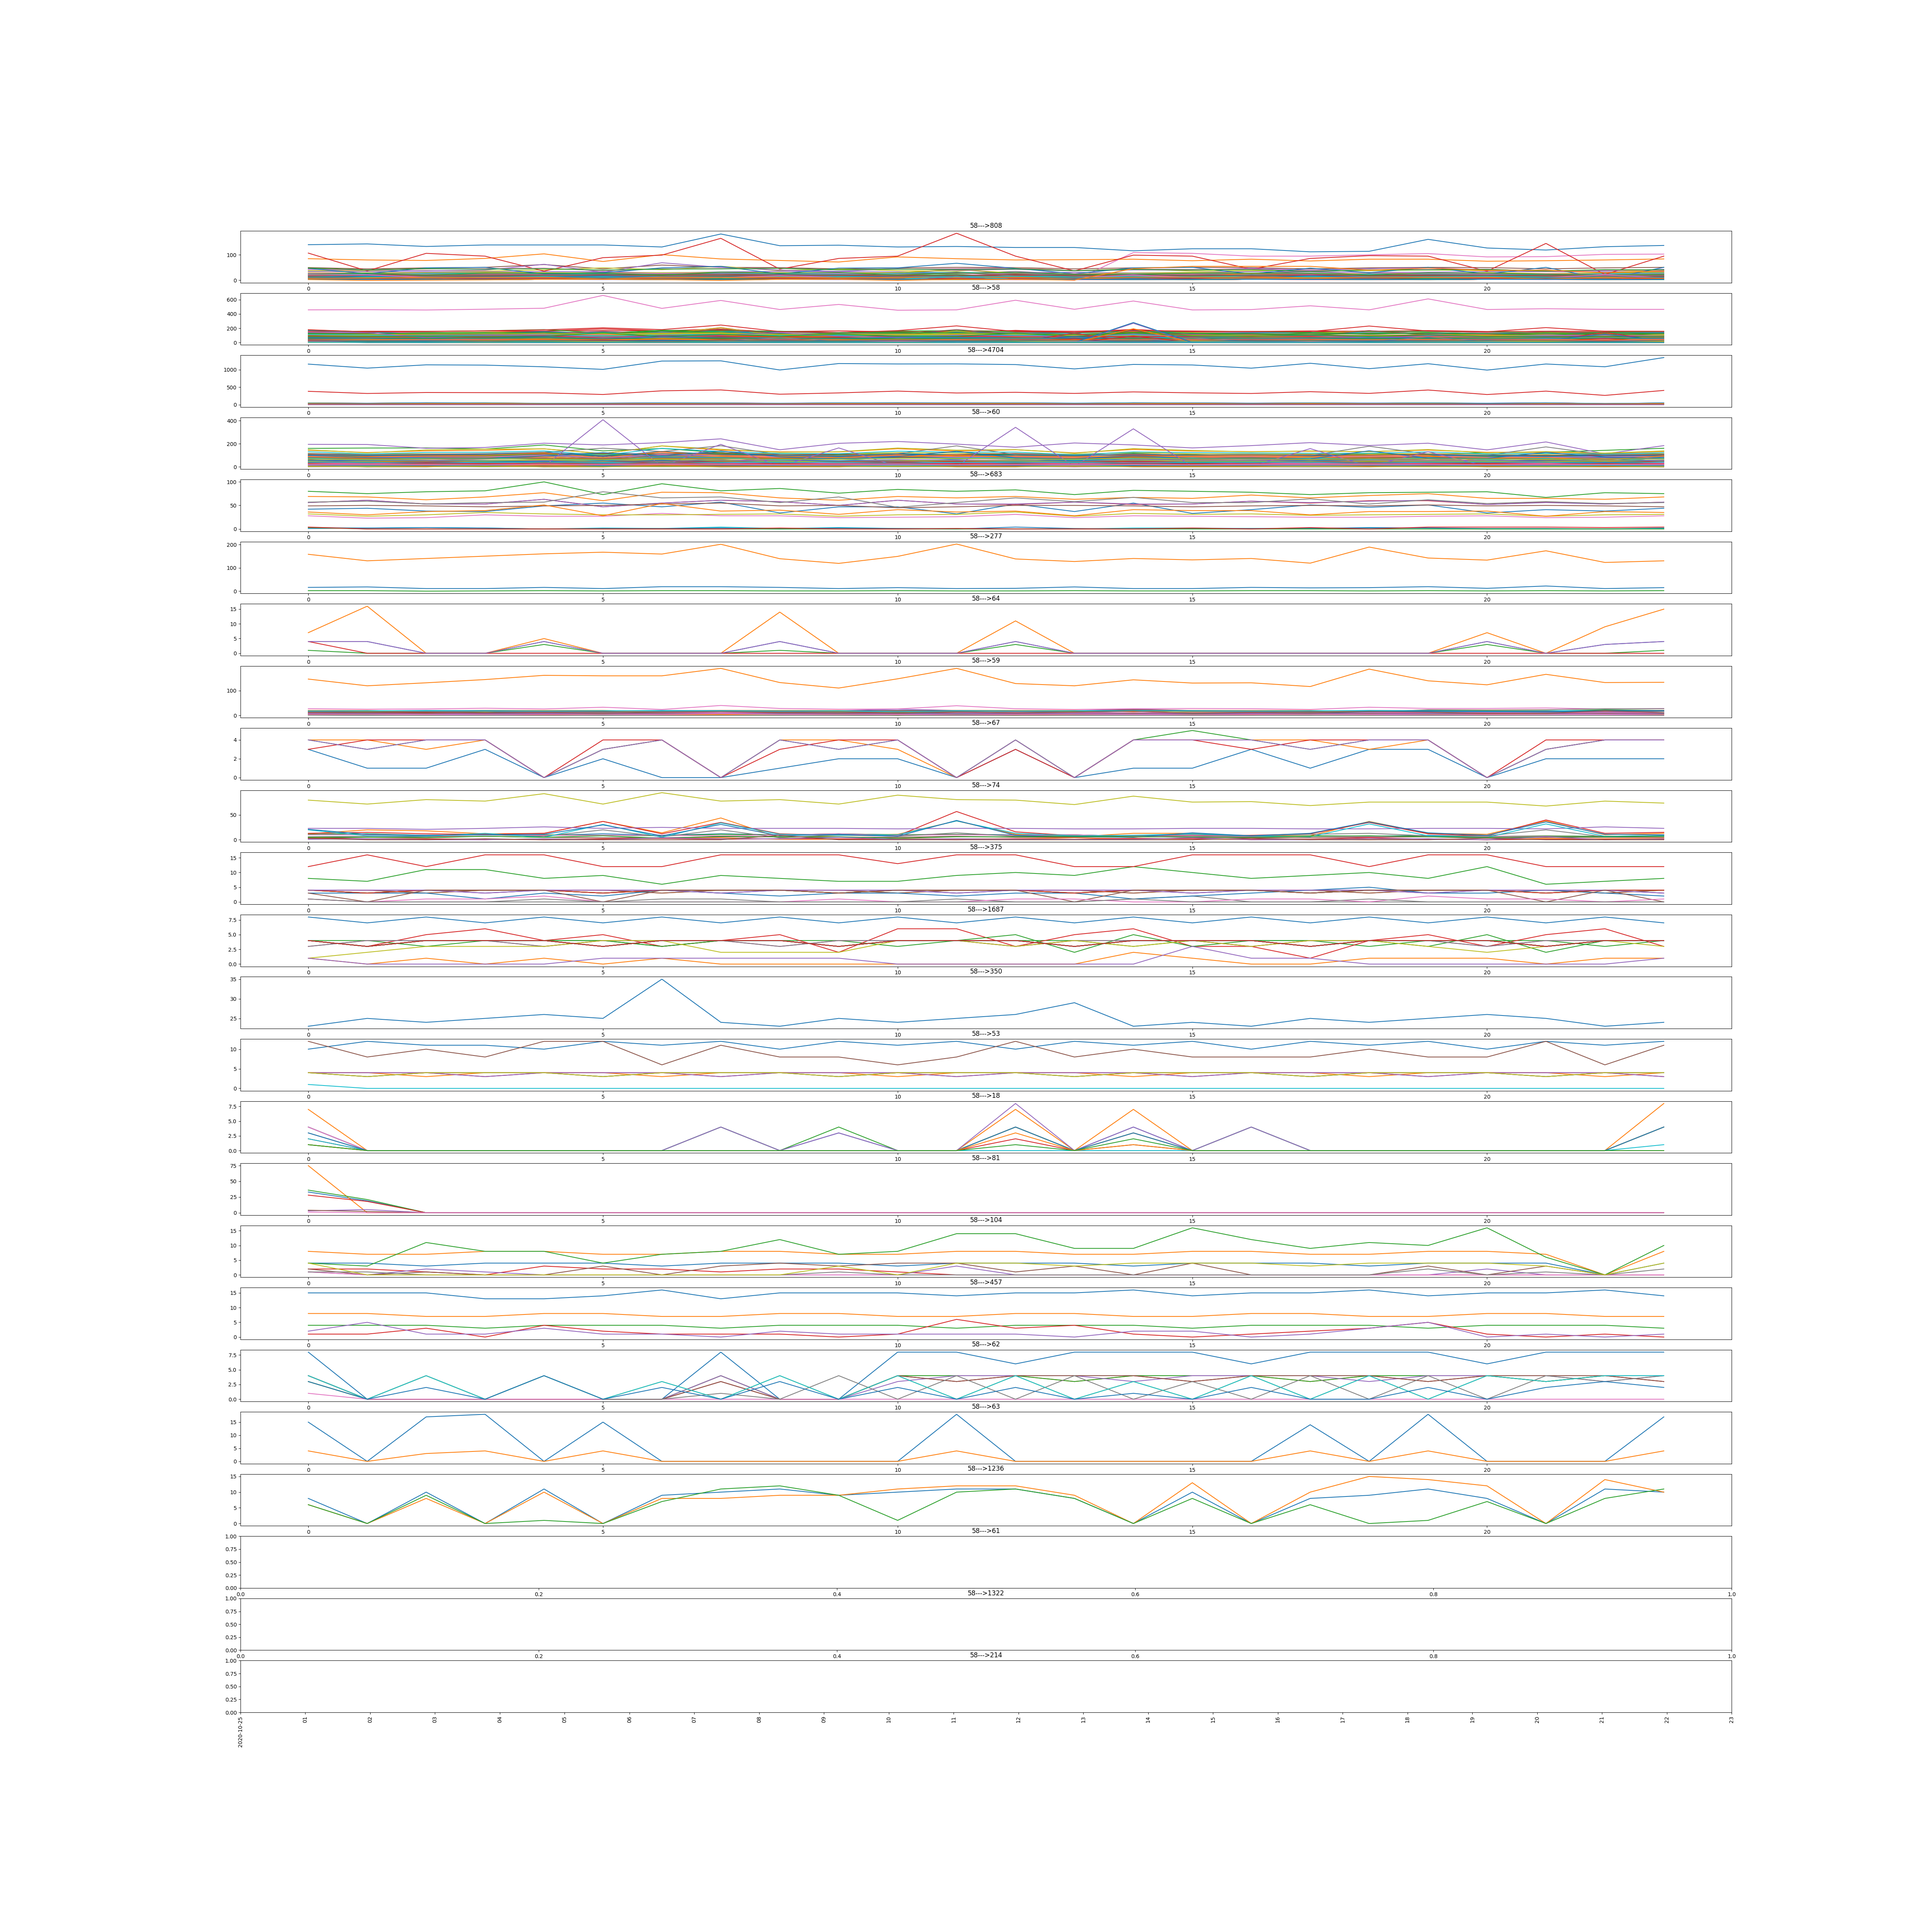
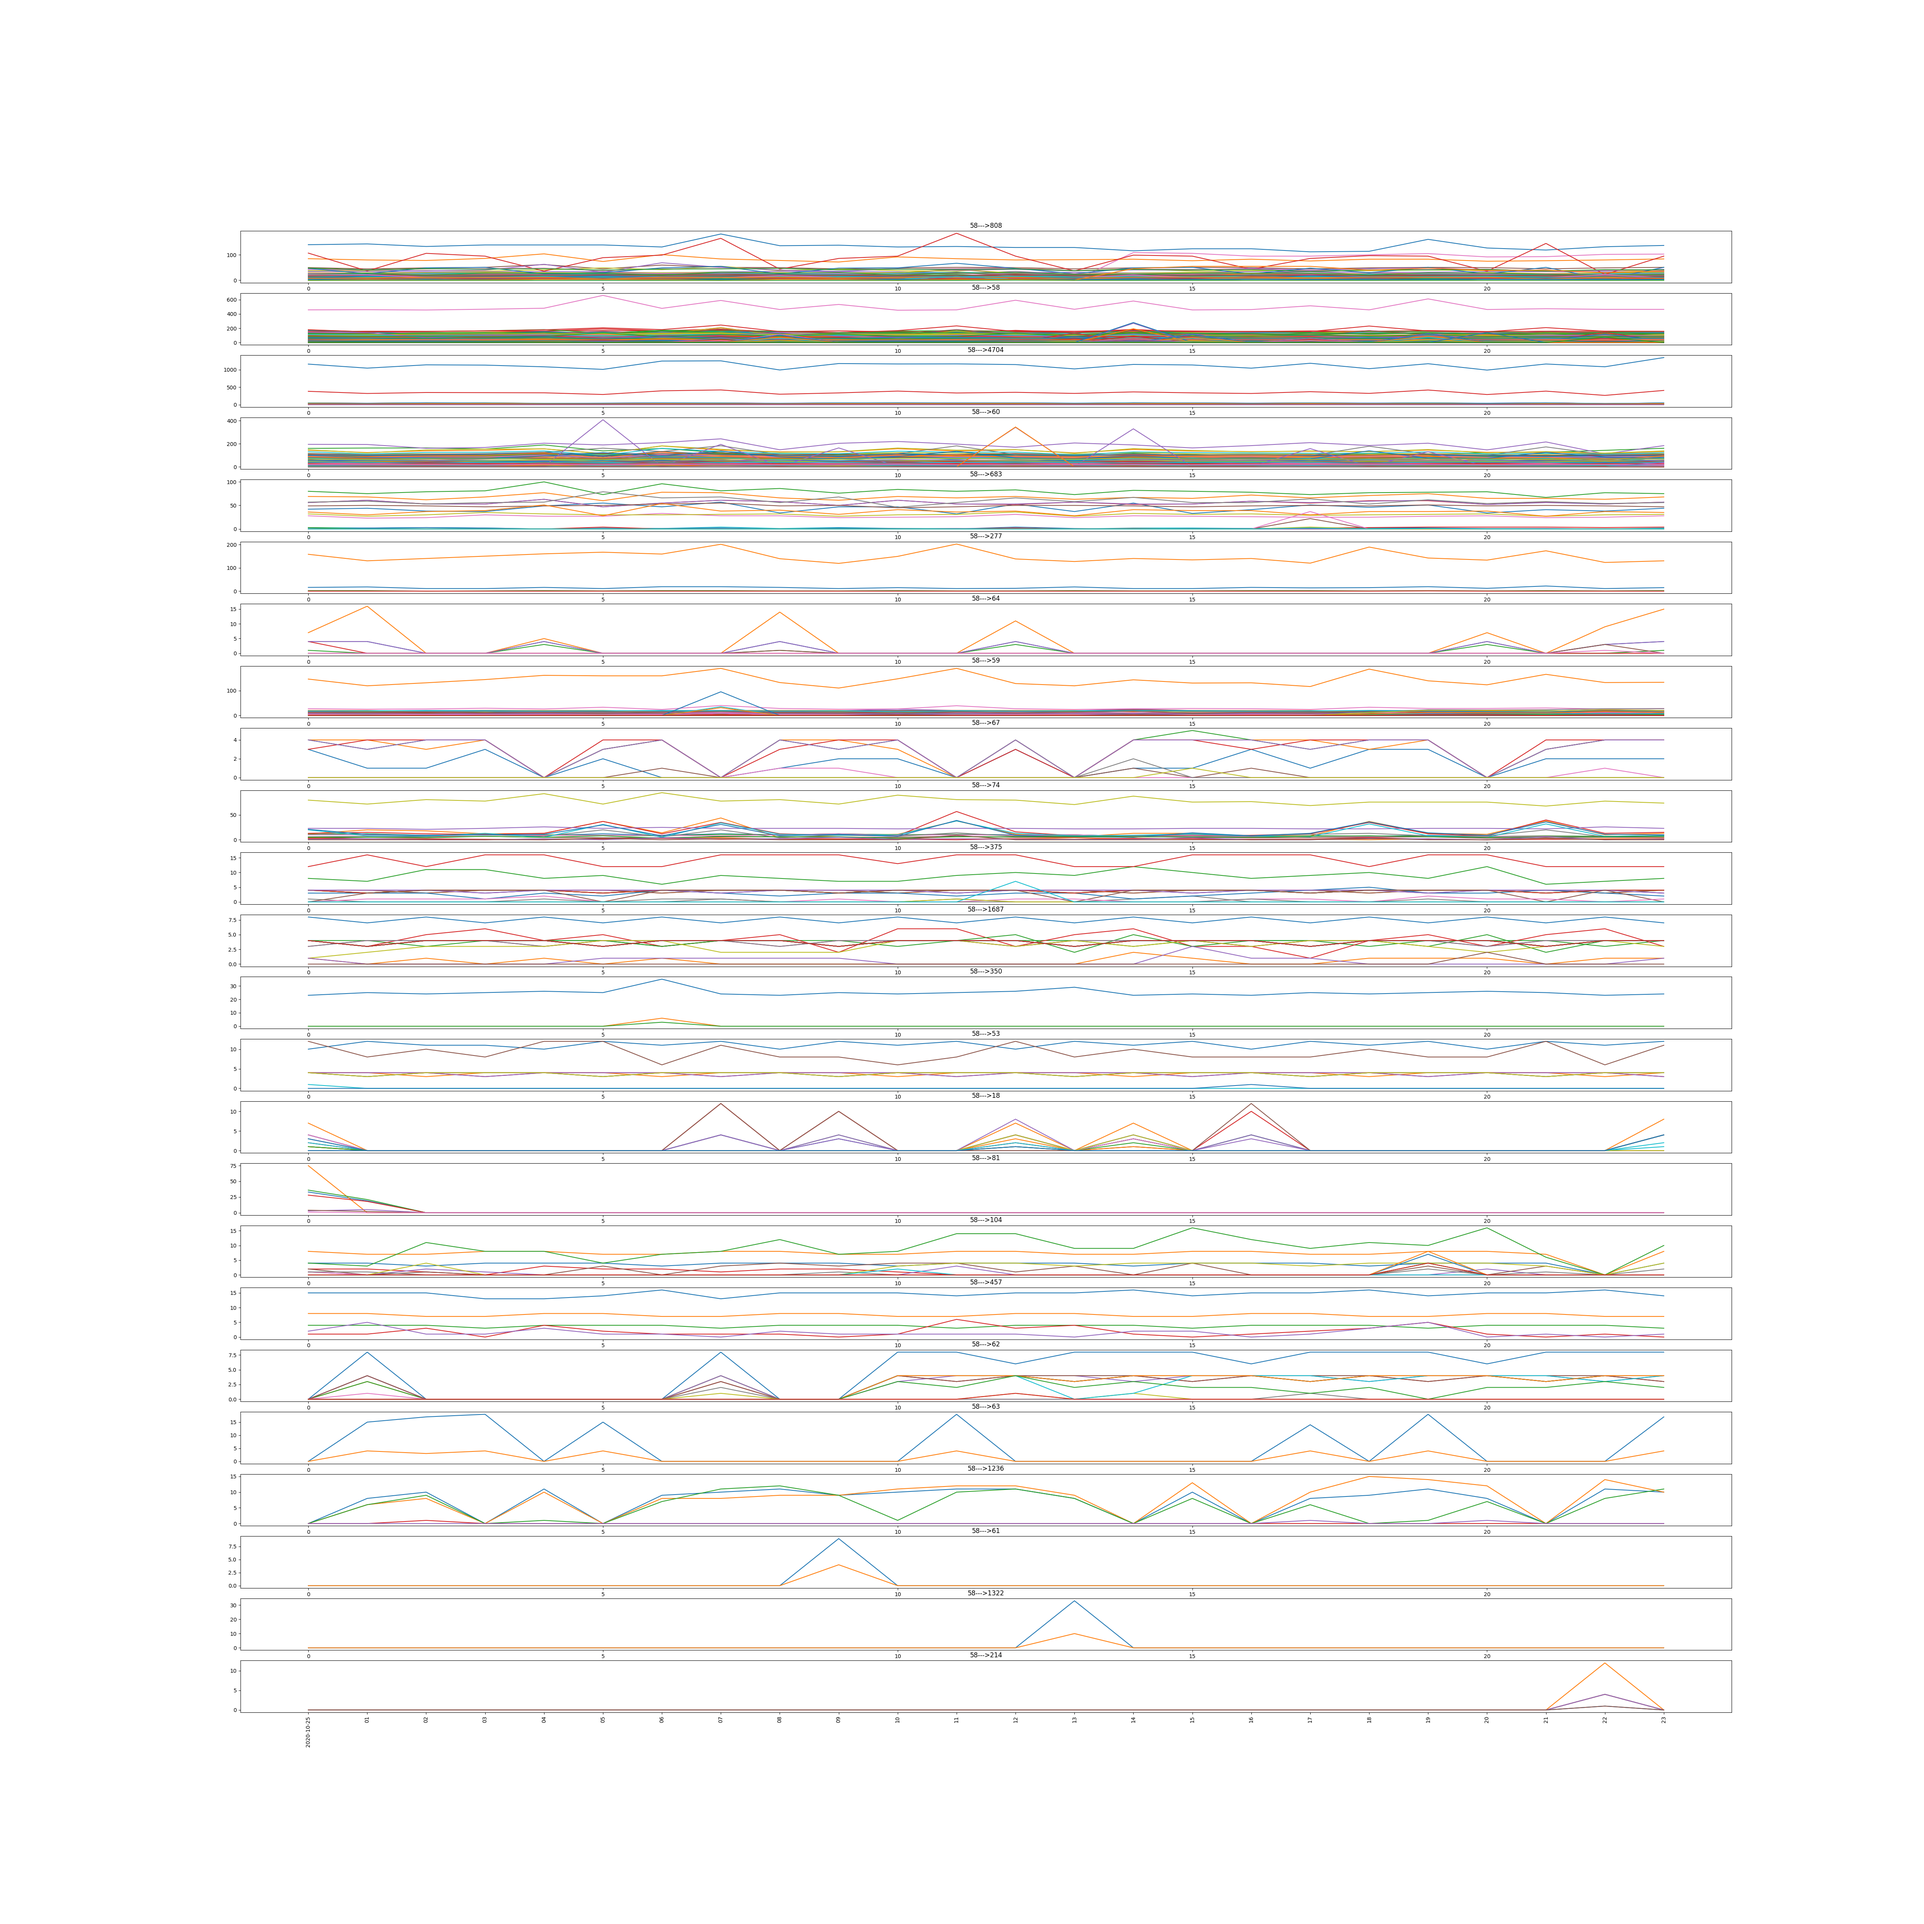
new graph

Changed region(s): [[0.4992, 0.5616, 0.624, 0.624], [0.156, 0.7176, 0.2184, 0.7488]]

diff --git a/phase3_scripts/fw_model/fw_patterns_graph.py b/phase3_scripts/fw_model/fw_patterns_graph.py
@@ -57,6 +57,7 @@ for date in tqdm(range(delta.days + 1)):
                 link_ok = True
             
             cnt = collections.Counter(connections[key]["msm_id"])
+#            print(cnt)
             if len(connections[key]["rtts"]) > 5 and len(connections[key]["probes"]) > 5:
 
                 if link0 in fw_dict:
@@ -65,28 +66,33 @@ for date in tqdm(range(delta.days + 1)):
                             if msm_id in fw_dict[link0][link1]:
                                 fw_dict[link0][link1][msm_id].append(count)
                             else:
-                                fw_dict[link0][link1][msm_id] = [0]*date + [count]
+                                fw_dict[link0][link1][msm_id] = [0]*((date+1)*int(hour)) + [count]
                     else:
                         fw_dict[link0][link1] = None
+                        msm_id_dict = {} 
                         for msm_id, count in cnt.items():
-                            fw_dict[link0][link1][msm_id] = [0]*date + [count]
+                            msm_id_dict[msm_id] = [0]*((date+1)*int(hour)) + [count]
+                        fw_dict[link0][link1] = msm_id_dict
                 else:
                     #print(link[0])
                     fw_dict[link0] = {link1 : None}
+                    msm_id_dict = {}
                     for msm_id, count in cnt.items():
-                        fw_dict[link0][link1][msm_id] = [0]*date + [count]
+                        msm_id_dict[msm_id] = [0]*((date+1)*int(hour)) + [count]
+                    fw_dict[link0][link1] = msm_id_dict
         file1.close()
         # If the near-end facility is not present in all the hours of the observation
         # cancel the plot and print an error message
         if link_ok == False:
             print("INVALID SOURCE")
             sys.exit()
-
+        #print(fw_dict)
         for near in fw_dict:
             for far in fw_dict[near]:
                 for msm_id, cnt_list in fw_dict[near][far].items():
+                    
                     if len(cnt_list) != len(date_list):
-                        fw_dict[near][far][msm_id].append[0]
+                        fw_dict[near][far][msm_id].append(0)
 
 fig, ax = plt.subplots(len(fw_dict[source]), sharex=False, figsize=(50,50))
 index = 0
@@ -101,7 +107,7 @@ for farend in fw_dict[source]:
 
 #start graphing
 
-
+#print(fw_dict["58"])
 
 
 #plt.boxplot(rtt_intervallist)
